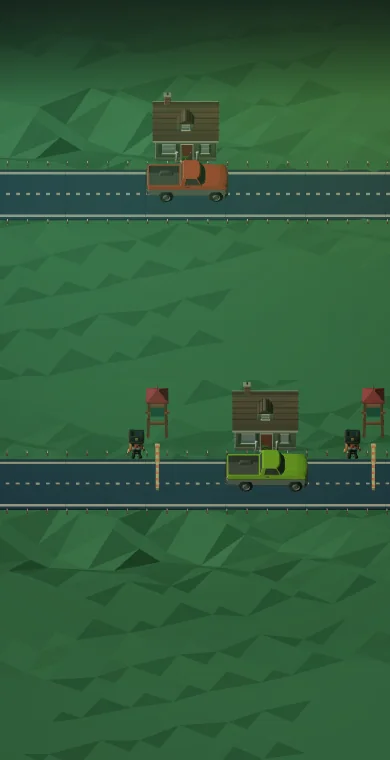
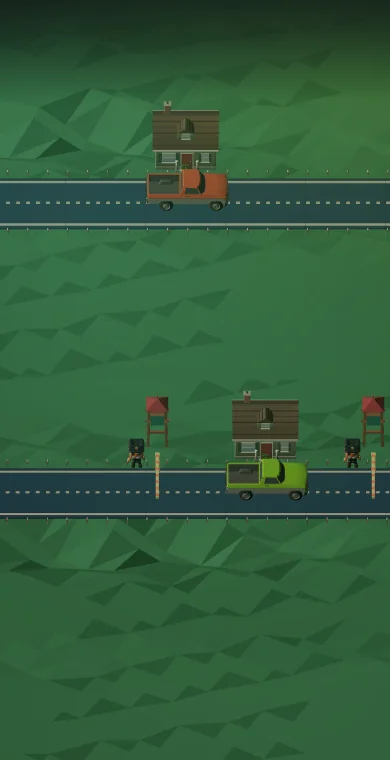
feat(website): offset hero routes and turn camera with scroll
Keep forest framing unchanged while nudging the two routes downward. Limit scroll-linked camera yaw to five degrees and refresh both static posters.

Changed region(s): [[0.0, 0.4842, 1.0, 0.6961], [0.0, 0.1211, 1.0, 0.3026]]

diff --git a/website/src/lib/hero-scene/scene.ts b/website/src/lib/hero-scene/scene.ts
@@ -344,8 +344,10 @@ export async function createHeroScene(canvas: HTMLCanvasElement, logoUrl: string
   loader.setDRACOLoader(draco);
   const [road, sedan, house, officer, box, specialBox, bomb, tower, rock, spruce, oak] = await Promise.all([loader.loadAsync(roadUrl), loader.loadAsync(carUrl), loader.loadAsync(houseUrl), loader.loadAsync(officerUrl), loader.loadAsync(boxUrl), loader.loadAsync(specialBoxUrl), loader.loadAsync(bombUrl), loader.loadAsync(towerUrl), loader.loadAsync(sceneryUrls.rock), loader.loadAsync(sceneryUrls.spruce), loader.loadAsync(sceneryUrls.oak)]);
   draco.dispose();
-  addFacetedGround(scene);
-  addScenery(scene, { rock: rock.scene, spruce: spruce.scene, oak: oak.scene });
+  const backdrop = new THREE.Group();
+  scene.add(backdrop);
+  addFacetedGround(backdrop);
+  addScenery(backdrop, { rock: rock.scene, spruce: spruce.scene, oak: oak.scene });
   const unsafe = buildLane(scene, new THREE.Vector3(ROAD_CENTERS[0][0], 0, ROAD_CENTERS[0][1]), false, logoUrl, road.scene, sedan.scene, house.scene, officer.scene, officer.animations, box.scene, specialBox.scene, bomb.scene, tower.scene);
   const safe = buildLane(scene, new THREE.Vector3(ROAD_CENTERS[1][0], 0, ROAD_CENTERS[1][1]), true, logoUrl, road.scene, sedan.scene, house.scene, officer.scene, officer.animations, box.scene, specialBox.scene, bomb.scene, tower.scene);
   const labels = {
@@ -482,6 +484,9 @@ export async function createHeroScene(canvas: HTMLCanvasElement, logoUrl: string
 
   function render(elapsed: number) {
     const rect = canvas.getBoundingClientRect();
+    const turn = THREE.MathUtils.degToRad(5) * THREE.MathUtils.clamp(-rect.top / rect.height, 0, 1);
+    const cosine = Math.cos(turn);
+    const sine = Math.sin(turn);
     const nextWidth = Math.max(1, Math.floor(rect.width));
     const nextHeight = Math.max(1, Math.floor(rect.height));
     if (nextWidth !== width || nextHeight !== height) {
@@ -493,21 +498,29 @@ export async function createHeroScene(canvas: HTMLCanvasElement, logoUrl: string
     if (mobile) {
       const half = height / 2;
       for (const [lane, bottom] of [[unsafe, half], [safe, 0]] as const) {
-        unsafe.root.visible = lane === unsafe;
-        safe.root.visible = lane === safe;
+        unsafe.root.visible = safe.root.visible = false;
         renderer.setViewport(0, bottom, width, half);
         renderer.setScissor(0, bottom, width, half);
         const aspect = width / half;
         const span = 19.5;
         camera.left = -span / 2; camera.right = span / 2;
         camera.top = span / (2 * aspect); camera.bottom = -camera.top;
-        camera.position.set(lane.root.position.x + 10, 18, 16.875);
+        camera.position.set(lane.root.position.x + 10 * cosine + 16.875 * sine, 18, 16.875 * cosine - 10 * sine);
         camera.lookAt(lane.root.position.x, .1, 0);
         lane.root.rotation.y = ROAD_ANGLE;
         camera.updateProjectionMatrix();
+        renderer.render(scene, camera);
+        backdrop.visible = false;
+        lane.root.visible = true;
+        camera.position.y += .6;
+        camera.lookAt(lane.root.position.x, .7, 0);
         pose(lane, elapsed, lane === safe, getViewportExit(lane));
         placeHouseLabel(lane, lane === safe ? labels.safe : labels.unsafe, bottom, half);
+        renderer.autoClear = false;
+        renderer.clearDepth();
         renderer.render(scene, camera);
+        renderer.autoClear = true;
+        backdrop.visible = true;
       }
       unsafe.root.visible = safe.root.visible = true;
     } else {
@@ -518,15 +531,25 @@ export async function createHeroScene(canvas: HTMLCanvasElement, logoUrl: string
       const span = verticalSpan * aspect;
       camera.left = -span / 2; camera.right = span / 2;
       camera.top = verticalSpan / 2; camera.bottom = -camera.top;
-      camera.position.set(16, 23, 27);
+      unsafe.root.visible = safe.root.visible = false;
+      camera.position.set(16 * cosine + 27 * sine, 23, 27 * cosine - 16 * sine);
       camera.lookAt(0, 8.5, 0);
-      unsafe.root.rotation.y = safe.root.rotation.y = ROAD_ANGLE;
       camera.updateProjectionMatrix();
+      renderer.render(scene, camera);
+      backdrop.visible = false;
+      unsafe.root.visible = safe.root.visible = true;
+      camera.position.y += .9;
+      camera.lookAt(0, 9.4, 0);
+      unsafe.root.rotation.y = safe.root.rotation.y = ROAD_ANGLE;
       pose(unsafe, elapsed, false, getViewportExit(unsafe));
       pose(safe, elapsed, true, getViewportExit(safe));
       placeHouseLabel(unsafe, labels.unsafe, 0, height);
       placeHouseLabel(safe, labels.safe, 0, height);
+      renderer.autoClear = false;
+      renderer.clearDepth();
       renderer.render(scene, camera);
+      renderer.autoClear = true;
+      backdrop.visible = true;
     }
   }
 
